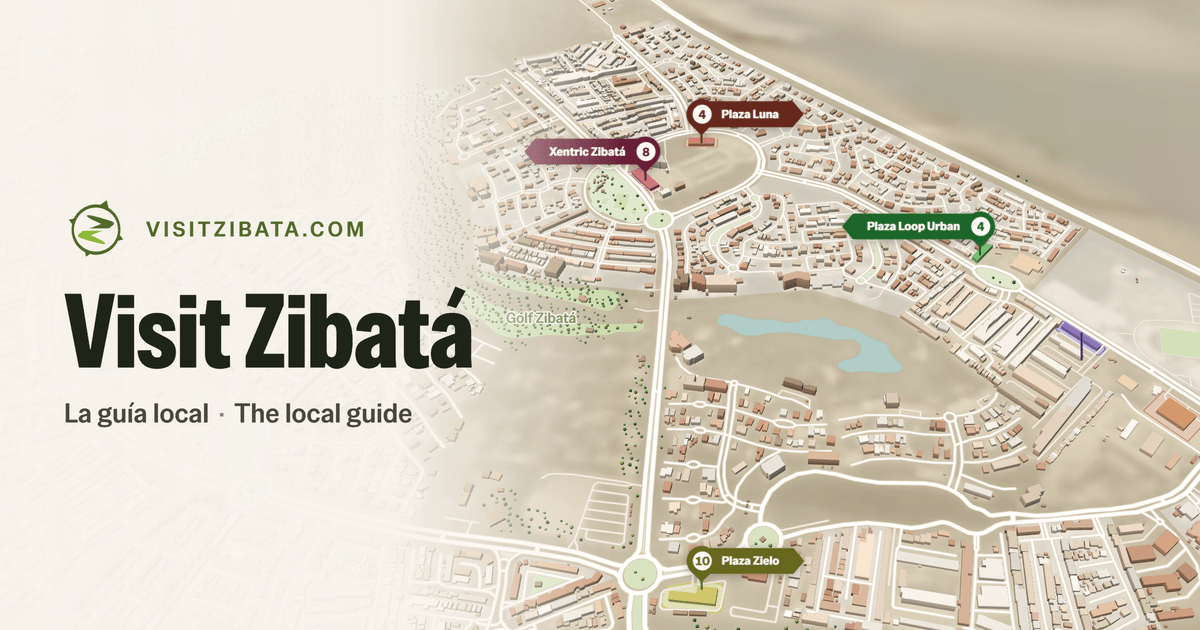
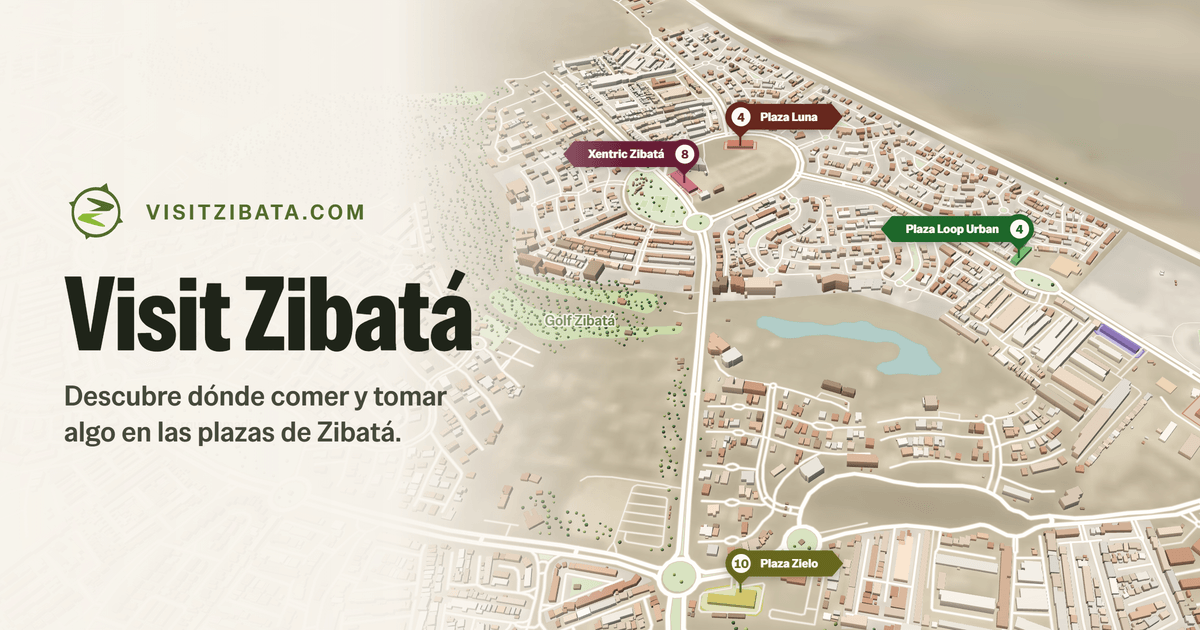
Una imagen social por idioma, con descripción propia
- public/og-image.png (ES) y public/og-image-en.png (EN), generadas por
  generate-og-image.ts. Cada una lleva logo con dominio, «Visit Zibatá» y una
  descripción en su idioma. Se quita el lema bilingüe.
- prerender.ts: la imagen depende del idioma de la página, también en el
  JSON-LD de las fichas. Cada página declara además og:image:alt en su idioma
  (clave seo.imageAlt); el texto de index.html deja de decir «Vista 3D».
- El generador oculta la interfaz antes de encuadrar el mapa y deja cada tallo
  solo si su etiqueta es visible: antes quedaba suelto el del pin morado.
- seo-regresion.spec.ts y prerender.metadatos.test.ts exigen la imagen y el
  texto alternativo de cada idioma.

diff --git a/scripts/images/generate-og-image.ts b/scripts/images/generate-og-image.ts
@@ -1,16 +1,15 @@
 /**
  * npm run images:og -- --url http://localhost:5180/
  *
- * Genera public/og-image.png (1200×630) a partir del propio mapa: abre la app, lo encuadra, oculta
- * la interfaz, superpone la marca y captura. Requiere el navegador de Playwright (npx playwright
- * install chromium).
+ * Genera las imágenes sociales public/og-image.png (español) y public/og-image-en.png (inglés), de
+ * 1200×630, a partir del propio mapa: abre la app, oculta la interfaz, lo encuadra, superpone la
+ * marca y captura. Requiere el navegador de Playwright (npx playwright install chromium).
  *
- * Es la única imagen social de todo el sitio y de los dos idiomas (ver prerender.ts), así que lo
- * único escrito en ella es el nombre de la marca, el dominio y el lema en los dos idiomas: nada que
- * haya que traducir. Es una pieza de marca, no una captura técnica: el mapa ocupa todo el cuadro y no se
- * nombra la tecnología.
+ * Hay una por idioma y no una por local (ver prerender.ts): es lo que se ve al compartir cualquier
+ * página del sitio, así que el texto va en el idioma de la página. Es una pieza de marca y de
+ * mercadotecnia, no una captura técnica: el mapa ocupa todo el cuadro y no se nombra la tecnología.
  *
- * Lo que muestra el mapa es lo que tenga la app en ese momento: hay que volver a generarla cuando
+ * Lo que muestra el mapa es lo que tenga la app en ese momento: hay que volver a generarlas cuando
  * el mapa cambie.
  *
  * Tiene que correr contra `npm run dev`, no contra `npm run preview`: el build inyecta una CSP con
@@ -26,6 +25,21 @@ const { values } = parseArgs({
   options: { url: { type: 'string', default: 'http://localhost:5180/' } },
 })
 
+/**
+ * Lo único que cambia entre las dos imágenes. La descripción dice solo lo que hay en los datos: hoy
+ * son todo comida y bebida, así que no promete más.
+ */
+const IMAGENES = [
+  {
+    archivo: 'og-image.png',
+    descripcion: 'Descubre dónde comer y tomar algo en las plazas de Zibatá.',
+  },
+  {
+    archivo: 'og-image-en.png',
+    descripcion: 'Find where to eat and drink in the plazas of Zibatá.',
+  },
+]
+
 /** Encuadre del mapa: las plazas del centro de Zibatá a la derecha, con el margen izquierdo libre para la marca. */
 const CAMARA = {
   center: [-100.3225, 20.6805] as [number, number],
@@ -34,8 +48,18 @@ const CAMARA = {
   bearing: -10,
   padding: { left: 440, top: 0, right: 0, bottom: 0 },
 }
+/** Zona libre de la imagen: un pin que no cabe entero aquí (bajo el texto o cortado por el borde) se oculta. */
+const ZONA_LIBRE = { x0: 500, x1: 1176, y0: 24, y1: 606 }
 /** Se captura al doble y se reduce: el texto y los trazos finos del mapa salen más nítidos. */
 const ESCALA = 2
+
+type Mapa = {
+  jumpTo(camara: object): void
+  resize(): void
+  isMoving(): boolean
+  once(evento: string, fn: () => void): void
+  triggerRepaint(): void
+}
 
 // El símbolo sale de public/logo.svg, igual que los iconos: una sola fuente para toda la marca.
 const logo = readFileSync(`${ROOT}public/logo.svg`, 'utf8').trim()
@@ -55,18 +79,38 @@ try {
     timeout: 90_000,
   })
   await page.waitForTimeout(3000)
+
+  // Primero se oculta la interfaz y después se encuadra: al quitar la cabecera y el pie el mapa cambia de tamaño, y
+  // si se encuadrara antes la cámara y los pines se recolocarían después de decidir cuáles ocultar.
+  await page.addStyleTag({
+    content: `
+      header, aside, footer, fieldset, .maplibregl-ctrl-bottom-left { display: none !important; }
+      #og-card { position: fixed; inset: 0; z-index: 100; pointer-events: none;
+        background: linear-gradient(90deg, rgb(248 244 237 / 0.98) 0%, rgb(248 244 237 / 0.95) 33%, rgb(248 244 237 / 0) 52%); }
+      #og-card .inner { position: absolute; left: 64px; top: 50%; translate: 0 -50%; width: 430px; color: #1f2419; font-family: 'Special Gothic', sans-serif; }
+      #og-card .marca { display: flex; align-items: center; gap: 18px; }
+      #og-card svg { display: block; flex: none; }
+      #og-card h1 { margin: 22px 0 16px; font-family: 'Special Gothic', sans-serif; font-weight: 700; font-stretch: 75%; font-size: 104px; line-height: .92; letter-spacing: -.01em; }
+      #og-card .descripcion { margin: 0; font-size: 28px; font-weight: 500; line-height: 1.28; text-wrap: balance; color: #454a3b; }
+      #og-card .sitio { margin: 0; font-size: 21px; font-weight: 600; letter-spacing: .16em; text-transform: uppercase; color: #536c2a; }
+    `,
+  })
+  const quieto = () =>
+    page.waitForFunction(
+      () => !(window as unknown as { __zibataMap: Mapa }).__zibataMap.isMoving(),
+      null,
+      { timeout: 60_000 },
+    )
+  await page.evaluate(() => (window as unknown as { __zibataMap: Mapa }).__zibataMap.resize())
+  await page.waitForTimeout(1500)
+  await quieto()
   await page.evaluate((camara) => {
-    const mapa = (window as unknown as { __zibataMap: { jumpTo(c: object): void } }).__zibataMap
-    mapa.jumpTo(camara)
+    ;(window as unknown as { __zibataMap: Mapa }).__zibataMap.jumpTo(camara)
   }, CAMARA)
   await page.evaluate(
     () =>
       new Promise<void>((resolve) => {
-        const mapa = (
-          window as unknown as {
-            __zibataMap: { once(e: string, f: () => void): void; triggerRepaint(): void }
-          }
-        ).__zibataMap
+        const mapa = (window as unknown as { __zibataMap: Mapa }).__zibataMap
         const tope = setTimeout(resolve, 60_000)
         mapa.once('idle', () => {
           clearTimeout(tope)
@@ -76,63 +120,40 @@ try {
       }),
   )
   await page.waitForTimeout(3000)
+  await quieto()
 
-  await page.addStyleTag({
-    content: `
-      header, aside, footer, fieldset, .maplibregl-ctrl-bottom-left { display: none !important; }
-      #og-card { position: fixed; inset: 0; z-index: 100; pointer-events: none;
-        background: linear-gradient(90deg, rgb(248 244 237 / 0.98) 0%, rgb(248 244 237 / 0.95) 33%, rgb(248 244 237 / 0) 52%); }
-      #og-card .inner { position: absolute; left: 64px; top: 50%; translate: 0 -50%; width: 420px; color: #1f2419; font-family: 'Special Gothic', sans-serif; }
-      #og-card .marca { display: flex; align-items: center; gap: 18px; }
-      #og-card svg { display: block; flex: none; }
-      #og-card h1 { margin: 22px 0 14px; font-family: 'Special Gothic', sans-serif; font-weight: 700; font-stretch: 75%; font-size: 104px; line-height: .92; letter-spacing: -.01em; }
-      #og-card .lema { margin: 0; font-size: 27px; font-weight: 500; white-space: nowrap; color: #454a3b; }
-      #og-card .lema span { color: #8a907c; padding: 0 .35em; }
-      #og-card .sitio { margin: 0; font-size: 21px; font-weight: 600; letter-spacing: .16em; text-transform: uppercase; color: #536c2a; }
-    `,
-  })
-  await page.evaluate((marca) => {
-    const card = document.createElement('div')
-    card.id = 'og-card'
-    card.innerHTML = `<div class="inner">
-      <div class="marca">${marca}<p class="sitio">visitzibata.com</p></div>
-      <h1>Visit Zibatá</h1>
-      <p class="lema">La guía local<span>·</span>The local guide</p>
-    </div>`
-    card.querySelector('svg')?.setAttribute('width', '64')
-    card.querySelector('svg')?.setAttribute('height', '64')
-    document.body.append(card)
-  }, logo)
-  // Un pin que queda bajo el texto o cortado por el borde de la imagen estorba: solo se dejan los que caben enteros en la zona libre.
-  // Cada pin con nombre lleva además un tallo, que es otro marcador (muy angosto) en la misma vertical: se oculta con él.
-  await page.evaluate(
-    ({ x0, x1, y0, y1 }) => {
-      const marcadores = [...document.querySelectorAll<HTMLElement>('.maplibregl-marker')]
-      const rect = (el: HTMLElement) => el.getBoundingClientRect()
-      const esTallo = (el: HTMLElement) => rect(el).width < 8
-      const ocultos = marcadores.filter((el) => {
-        if (esTallo(el)) return false
+  // Un pin que no cabe entero en la zona libre se oculta, y su tallo con él. Cada pin con nombre lleva un tallo, que es otro
+  // marcador (muy angosto) anclado en el mismo punto: solo se deja si hay una etiqueta visible justo encima.
+  const ocultos = await page.evaluate((zona) => {
+    const marcadores = [...document.querySelectorAll<HTMLElement>('.maplibregl-marker')]
+    const rect = (el: HTMLElement) => el.getBoundingClientRect()
+    const esTallo = (el: HTMLElement) => rect(el).width < 8
+    const cabe = (el: HTMLElement) => {
+      const r = rect(el)
+      return r.left >= zona.x0 && r.right <= zona.x1 && r.top >= zona.y0 && r.bottom <= zona.y1
+    }
+    const etiquetas = marcadores.filter((el) => !esTallo(el))
+    for (const el of etiquetas) if (!cabe(el)) el.style.display = 'none'
+    const visibles = etiquetas.filter((el) => el.style.display !== 'none')
+    for (const tallo of marcadores.filter(esTallo)) {
+      const t = rect(tallo)
+      const centro = t.left + t.width / 2
+      const conEtiqueta = visibles.some((el) => {
         const r = rect(el)
-        return r.left < x0 || r.right > x1 || r.top < y0 || r.bottom > y1
+        return Math.abs(r.left + r.width / 2 - centro) < 8 && Math.abs(r.bottom - t.bottom) < 3
       })
-      for (const el of ocultos) el.style.display = 'none'
-      const centros = ocultos.map((el) => rect(el).left + rect(el).width / 2)
-      for (const el of marcadores) {
-        if (!esTallo(el)) continue
-        const r = rect(el)
-        const fuera = r.left < x0 || r.right > x1 || r.top < y0 || r.bottom > y1
-        if (fuera || centros.some((c) => Math.abs(c - (r.left + r.width / 2)) < 8))
-          el.style.display = 'none'
-      }
-    },
-    { x0: 500, x1: 1176, y0: 24, y1: 606 },
-  )
+      if (!conEtiqueta || !cabe(tallo)) tallo.style.display = 'none'
+    }
+    return marcadores.filter((el) => el.style.display === 'none').length
+  }, ZONA_LIBRE)
+  console.log(`  pines y tallos ocultos: ${ocultos}`)
+
   // Que la tipografía sea Special Gothic y no una sustituta: si el nombre de la familia no coincide con
   // el de la app, el navegador cae en una sans cualquiera sin avisar y la imagen sale con otra letra.
   const cargadas = await page.evaluate(async () => {
     await Promise.all([
       document.fonts.load('700 104px "Special Gothic"'),
-      document.fonts.load('500 30px "Special Gothic"'),
+      document.fonts.load('500 28px "Special Gothic"'),
     ])
     await document.fonts.ready
     return [...document.fonts].filter(
@@ -141,13 +162,33 @@ try {
   })
   if (cargadas === 0)
     throw new Error('Special Gothic no está cargada: la imagen saldría con otra tipografía')
-  const shot = await page.screenshot({ type: 'png' })
-  // Paleta reducida: es una imagen de vista previa y WhatsApp descarta las que pesan demasiado.
-  await sharp(shot)
-    .resize(1200, 630, { kernel: 'lanczos3' })
-    .png({ compressionLevel: 9, palette: true, quality: 90, effort: 10 })
-    .toFile(`${ROOT}public/og-image.png`)
-  console.log(`✓ public/og-image.png (Special Gothic cargada, ${cargadas} archivo/s)`)
+
+  await page.evaluate((marca) => {
+    const card = document.createElement('div')
+    card.id = 'og-card'
+    card.innerHTML = `<div class="inner">
+      <div class="marca">${marca}<p class="sitio">visitzibata.com</p></div>
+      <h1>Visit Zibatá</h1>
+      <p class="descripcion"></p>
+    </div>`
+    card.querySelector('svg')?.setAttribute('width', '64')
+    card.querySelector('svg')?.setAttribute('height', '64')
+    document.body.append(card)
+  }, logo)
+
+  for (const { archivo, descripcion } of IMAGENES) {
+    await page.evaluate((texto) => {
+      const p = document.querySelector('#og-card .descripcion')
+      if (p) p.textContent = texto
+    }, descripcion)
+    const shot = await page.screenshot({ type: 'png' })
+    // Paleta reducida: es una imagen de vista previa y WhatsApp descarta las que pesan demasiado.
+    await sharp(shot)
+      .resize(1200, 630, { kernel: 'lanczos3' })
+      .png({ compressionLevel: 9, palette: true, quality: 90, effort: 10 })
+      .toFile(`${ROOT}public/${archivo}`)
+    console.log(`✓ public/${archivo} (Special Gothic cargada)`)
+  }
 } finally {
   await browser.close()
 }

diff --git a/tests/e2e/seo-regresion.spec.ts b/tests/e2e/seo-regresion.spec.ts
@@ -521,14 +521,25 @@ test.describe('Enlaces internos y recursos', () => {
     expect(rotos, `recursos que faltan:\n${rotos.slice(0, 15).join('\n')}`).toEqual([])
   })
 
-  test('todas las páginas llevan la misma imagen social, absoluta con SITE_URL, y existe', () => {
-    // Una imagen para todo el sitio y los dos idiomas (public/og-image.png): no hay imagen por local.
-    const esperada = `${ORIGEN ?? ''}${BASE}og-image.png`
-    expect(archivoDe('/og-image.png'), 'falta og-image.png en dist/').not.toBeNull()
+  test('cada página lleva la imagen social de su idioma, absoluta con SITE_URL, y existe', () => {
+    // Una imagen por idioma, igual en todas las páginas de ese idioma: no hay imagen por local.
+    const imagen = (en: boolean) =>
+      `${ORIGEN ?? ''}${BASE}${en ? 'og-image-en.png' : 'og-image.png'}`
+    for (const archivo of ['/og-image.png', '/og-image-en.png']) {
+      expect(archivoDe(archivo), `falta ${archivo} en dist/`).not.toBeNull()
+    }
     expect(esDirectorio(join(DIST, 'og')), 'dist/og/ ya no debe existir').toBe(false)
-    for (const { loc, html } of paginas) {
+    const alts = new Set<string>()
+    for (const { loc, ruta, html } of paginas) {
+      const esEn = ruta === '/en' || ruta.startsWith('/en/')
+      const esperada = imagen(esEn)
       const imagenes = etiqueta(html, /<meta\s+property="og:image"\s+content="([^"]*)"/g)
       expect(imagenes, `og:image de ${loc}`).toEqual([esperada])
+      // El texto alternativo existe y está en el idioma de la página: uno distinto por idioma.
+      const alt = etiqueta(html, /<meta\s+property="og:image:alt"\s+content="([^"]*)"/g)
+      expect(alt, `og:image:alt de ${loc}`).toHaveLength(1)
+      expect(alt[0], `og:image:alt de ${loc}`).not.toBe('')
+      alts.add(`${esEn ? 'en' : 'es'}|${alt[0]}`)
       expect(html, `${loc} sigue apuntando a /og/`).not.toMatch(/\/og\/[^"]*\.jpg/)
       // El `image` del JSON-LD, si lo hay, es la misma URL.
       for (const [, json] of html.matchAll(
@@ -538,6 +549,7 @@ test.describe('Enlaces internos y recursos', () => {
         if (image !== undefined) expect(image, `JSON-LD de ${loc}`).toBe(esperada)
       }
     }
+    expect(alts.size, 'un og:image:alt por idioma').toBe(2)
   })
 })
 

diff --git a/scripts/build/prerender.metadatos.test.ts b/scripts/build/prerender.metadatos.test.ts
@@ -105,17 +105,19 @@ describe.each(idiomas)('metadatos de las páginas (%s)', (idioma) => {
     }
   })
 
-  it('todas las páginas usan la misma imagen social, también en el JSON-LD de las fichas', () => {
-    // Una imagen para todo el sitio y los dos idiomas: no hay imagen por local ni texto que traducir en ella.
-    for (const pagina of todas) expect(pagina.image, pagina.href).toBe('/og-image.png')
+  it('todas las páginas del idioma usan su imagen social, también en el JSON-LD de las fichas', () => {
+    // Una imagen por idioma, igual en todas las páginas de ese idioma: no hay imagen por local.
+    const imagen = idioma === 'en' ? '/og-image-en.png' : '/og-image.png'
+    for (const pagina of todas) expect(pagina.image, pagina.href).toBe(imagen)
     for (const pagina of fichas) {
-      expect(pagina.jsonLd?.image, pagina.href).toBe(absoluta('/og-image.png'))
+      expect(pagina.jsonLd?.image, pagina.href).toBe(absoluta(imagen))
     }
   })
 
   it('con una base en subruta la imagen social la lleva', () => {
+    const imagen = idioma === 'en' ? 'og-image-en.png' : 'og-image.png'
     for (const pagina of pagesFor(idioma, data, '/visit-zibata/', absoluta)) {
-      expect(pagina.image, pagina.href).toBe('/visit-zibata/og-image.png')
+      expect(pagina.image, pagina.href).toBe(`/visit-zibata/${imagen}`)
     }
   })
 

diff --git a/scripts/build/prerender.ts b/scripts/build/prerender.ts
@@ -152,8 +152,9 @@ export function pagesFor(
   absolute: (href: string) => string,
 ): Page[] {
   const copy = CATALOGS[locale]
-  // Una sola imagen para todo el sitio (public/og-image.png): sin texto traducible, así que sirve a los dos idiomas.
-  const image = `${base}og-image.png`
+  // Una imagen social por idioma, igual en todas las páginas de ese idioma (public/og-image.png y og-image-en.png): lleva escrito el
+  // texto de la marca en su idioma, así que una ficha en inglés no se comparte con una imagen en español.
+  const image = `${base}${locale === 'en' ? 'og-image-en.png' : 'og-image.png'}`
   const giroLabel = new Map<string, string>()
   const categoryOfGiro = new Map<string, Category>()
   for (const category of data.categories) {
@@ -648,6 +649,11 @@ export function prerender(options: { base: string; siteUrl?: string }): Plugin {
             html,
             metaTag('property', 'og:image'),
             `<meta property="og:image" content="${escapeHtml(absolute(page.image))}" />`,
+          )
+          html = setTag(
+            html,
+            metaTag('property', 'og:image:alt'),
+            `<meta property="og:image:alt" content="${escapeHtml(String(CATALOGS[locale]['seo.imageAlt']))}" />`,
           )
           html = setTag(
             html,

diff --git a/index.html b/index.html
@@ -32,7 +32,10 @@
     <meta property="og:image" content="/og-image.png" />
     <meta property="og:image:width" content="1200" />
     <meta property="og:image:height" content="630" />
-    <meta property="og:image:alt" content="Vista 3D de Zibatá con sus plazas comerciales resaltadas" />
+    <meta
+      property="og:image:alt"
+      content="Visit Zibatá: mapa de Zibatá con las plazas donde comer y tomar algo, la guía local de la localidad."
+    />
     <meta name="twitter:card" content="summary_large_image" />
   </head>
   <body>

diff --git a/src/i18n/es.ts b/src/i18n/es.ts
@@ -154,6 +154,8 @@ export const es = {
    * resultado de búsqueda y vista previa al compartir. Nunca se ven dentro de la aplicación.
    */
   'seo.home.title': 'Visit Zibatá · La guía local para descubrir Zibatá',
+  'seo.imageAlt':
+    'Visit Zibatá: mapa de Zibatá con las plazas donde comer y tomar algo, la guía local de la localidad.',
   'seo.home.description':
     'Descubre Zibatá: negocios y lugares de cada plaza, con horarios y contacto. ' +
     'Explora la localidad y decide adónde ir.',

diff --git a/src/i18n/en.ts b/src/i18n/en.ts
@@ -137,6 +137,8 @@ export const en = {
   'brand.by': 'A project by',
 
   'seo.home.title': 'Visit Zibatá · The local guide to discovering Zibatá',
+  'seo.imageAlt':
+    'Visit Zibatá: a map of Zibatá with the plazas where to eat and drink, the local guide to the town.',
   'seo.home.description':
     'Discover Zibatá: businesses and places in each plaza, with hours, contact ' +
     'and directions. Everything you need to decide where to go.',
